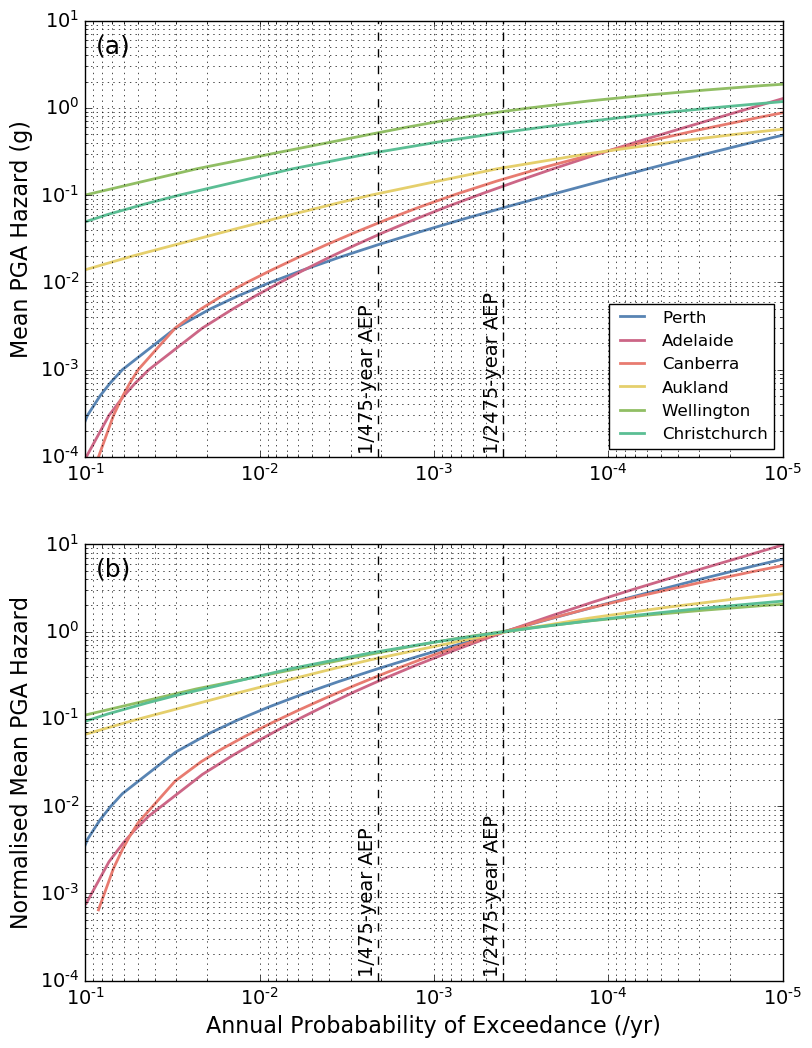
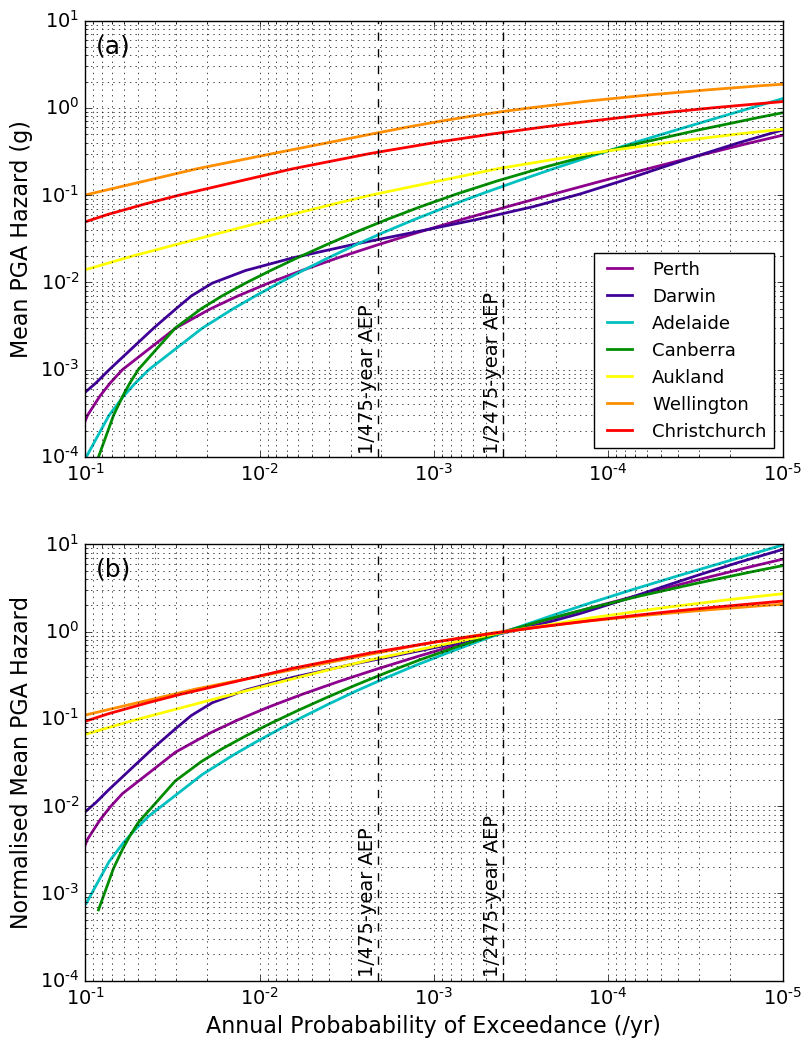
adding darwin to haz curves

diff --git a/conferences/2018_aees/Allen/plt_normalised_aus_nz_hazcurves.py b/conferences/2018_aees/Allen/plt_normalised_aus_nz_hazcurves.py
@@ -14,10 +14,10 @@ reload(sys) # for unicode chars
 sys.setdefaultencoding("latin-1")
 warnings.filterwarnings("ignore")
 
-plt_au_places = ['Perth', 'Adelaide', 'Canberra']
-#cptfile = '//Users//tallen//Documents//DATA//GMT//cpt//Paired_08.cpt'
-cptfile = '//Users//tallen//Documents//DATA//GMT//cpt//qual-dark-06.cpt'
-ncolours = 7
+plt_au_places = ['Perth', 'Darwin', 'Adelaide', 'Canberra']
+cptfile = '//Users//tallen//Documents//DATA//GMT//cpt//gay-flag-1978-9.cpt'
+#cptfile = '//Users//tallen//Documents//DATA//GMT//cpt//qual-dark-06.cpt'
+ncolours = 8
 cmap, zvals = cpt2colormap(cptfile, ncolours)
 cmap = remove_last_cmap_colour(cmap)
 p = -1
@@ -130,7 +130,7 @@ yoff = get_log_xy_locs([1e-5, .1], .015)
 plt.text(yhaz10+yoff, 1.1E-4, '1/475-year AEP', rotation=90., va='bottom',ha='right',fontsize=14)
 yoff = get_log_xy_locs([1e-5, .1], .005)
 plt.text(yhaz2+yoff/5., 1.1E-4, '1/2475-year AEP', rotation=90., va='bottom',ha='right',fontsize=14)
-plt.legend(loc=4, fontsize=12)
+plt.legend(loc=4, fontsize=13)
 yoff = get_log_xy_locs([1E-4, 10.], .97)
 xoff = get_log_xy_locs([1E-5, 0.1], .985)
 plt.text(xoff, yoff, '(a)', va='top',ha='left',fontsize=18)
